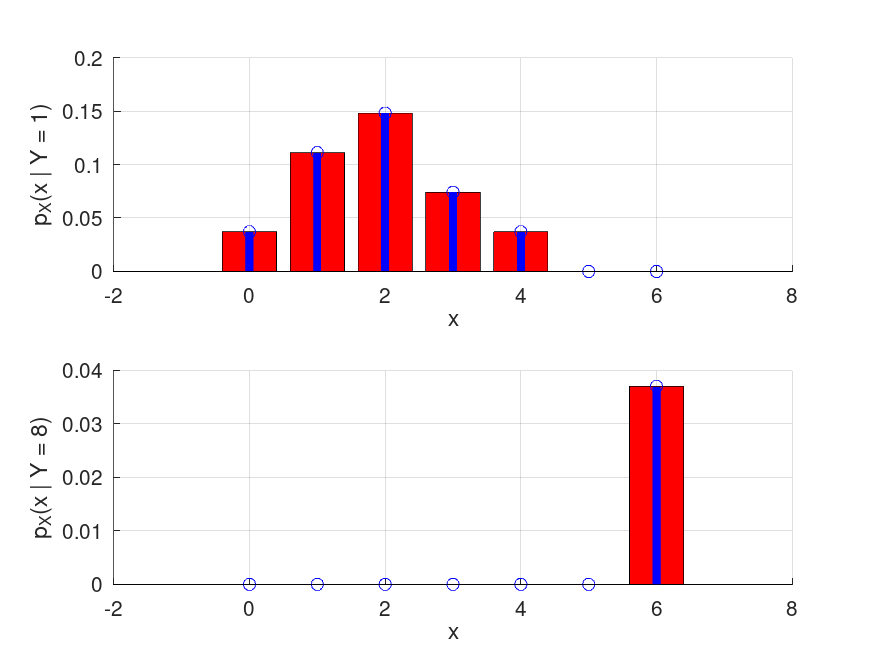
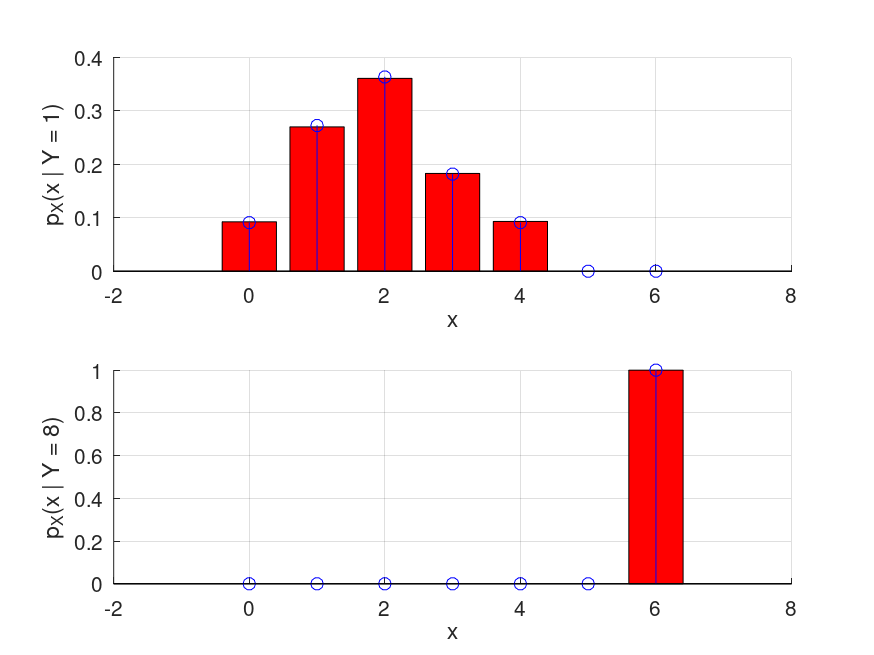
correção da prova 2 , atualização das figuras

diff --git a/Prova_2/prova_2.m b/Prova_2/prova_2.m
@@ -75,13 +75,13 @@ pmfX_condY_sim(2, :) = hist(XcondY, x) / sum(Y == 8);
 pmfX_condY_teo = [ 1/11  3/11  4/11  2/11  1/11  0  0
                     0      0     0     0    0   0  1] ;
 
-
-subplot(2, 2, 3); hold on; grid on;
+figure
+subplot(2, 1,1); hold on; grid on;
 bar(x, pmfX_condY_sim(1, :), 'r');
 stem(x, pmfX_condY_teo(1, :), 'b', 'LineWidth', 4);
 xlabel('x'); ylabel(sprintf('p_X(x | Y = 1)'));
 
-subplot(2, 2, 4); hold on; grid on;
+subplot(2, 1,2); hold on; grid on;
 bar(x, pmfX_condY_sim(2, :), 'r');
 stem(x, pmfX_condY_teo(2, :), 'b', 'LineWidth', 4);
 xlabel('x'); ylabel(sprintf('p_X(x | Y = 8)'));
